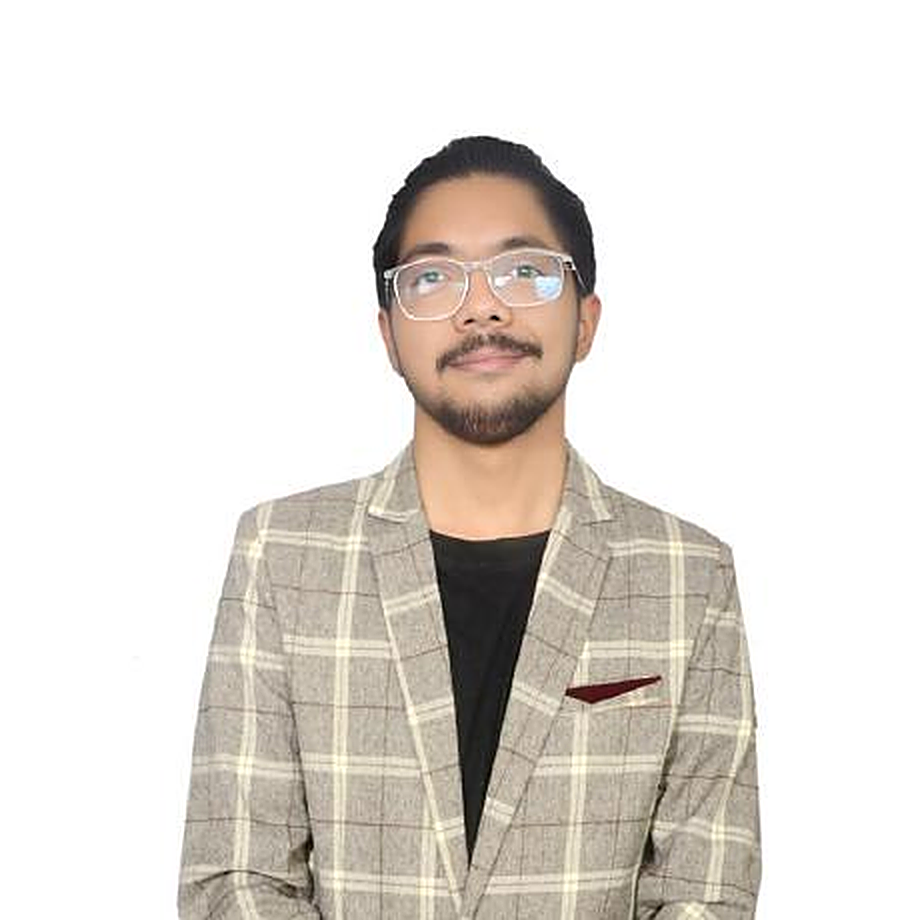
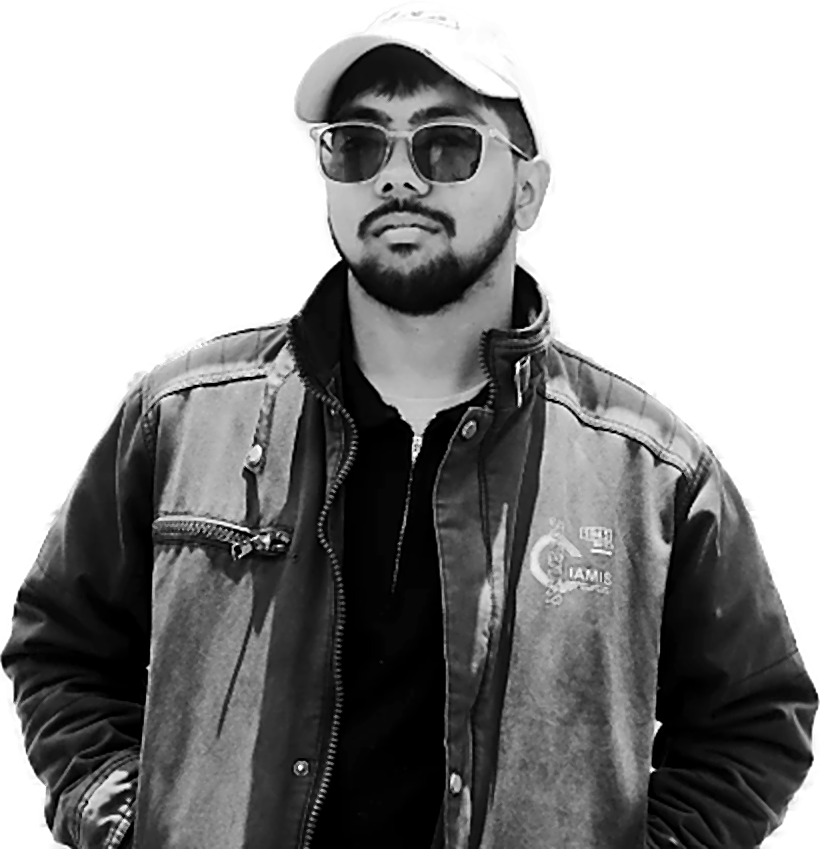
Use the new photo in the hero, signature card and footer
- Hero/footer: enhanced (2x upscale, de-noise, contrast, sharpen) and cut out with an AI model
- Signature card: the full photo with its city backdrop (public/images/me/card.jpg)

diff --git a/lib/images.ts b/lib/images.ts
@@ -40,6 +40,11 @@ export function portraitSrc(): string | null {
   return listImages("me").find((u) => /portrait/i.test(u)) ?? listImages("me")[0] ?? null;
 }
 
+/** Photo for the signature card: public/images/me/card.* if present, else the portrait. */
+export function cardSrc(): string | null {
+  return listImages("me").find((u) => /\/card\./i.test(u)) ?? portraitSrc();
+}
+
 /** Does a file exist in /public? (e.g. the story recording) */
 export function publicFileExists(url: string): boolean {
   return fs.existsSync(path.join(process.cwd(), "public", decodeURIComponent(url.replace(/^\//, ""))));

diff --git a/components/sections/Signature.tsx b/components/sections/Signature.tsx
@@ -1,5 +1,5 @@
 import { site } from "@/content/site";
-import { portraitSrc } from "@/lib/images";
+import { cardSrc } from "@/lib/images";
 import { signatureStrokes } from "@/lib/signature";
 import Marquee from "../Marquee";
 
@@ -10,7 +10,7 @@ export default function Signature() {
   const half = Math.ceil(words.length / 2);
   const rowA = words.slice(0, half).join(" ");
   const rowB = words.slice(half).join(" ");
-  const photo = portraitSrc();
+  const photo = cardSrc();
 
   return (
     <section className="sig-track" data-sig aria-label={site.message.eyebrow}>

diff --git a/content/site.ts b/content/site.ts
@@ -37,7 +37,7 @@ export const site = {
     mode: "2d" as "2d" | "3d",
     // A photo on a plain white/light background works best (it is cut out automatically).
     // Already transparent PNG? set removeBackground: false.
-    removeBackground: true,
+    removeBackground: false, // portrait.png is already cut out (transparent background)
     // 3D only: where the face is, as fractions of the image (0–1), used to shape the depth.
     face: { x: 0.52, y: 0.35, radius: 0.12 },
     // 3D only: how strongly the head turns towards the cursor.
